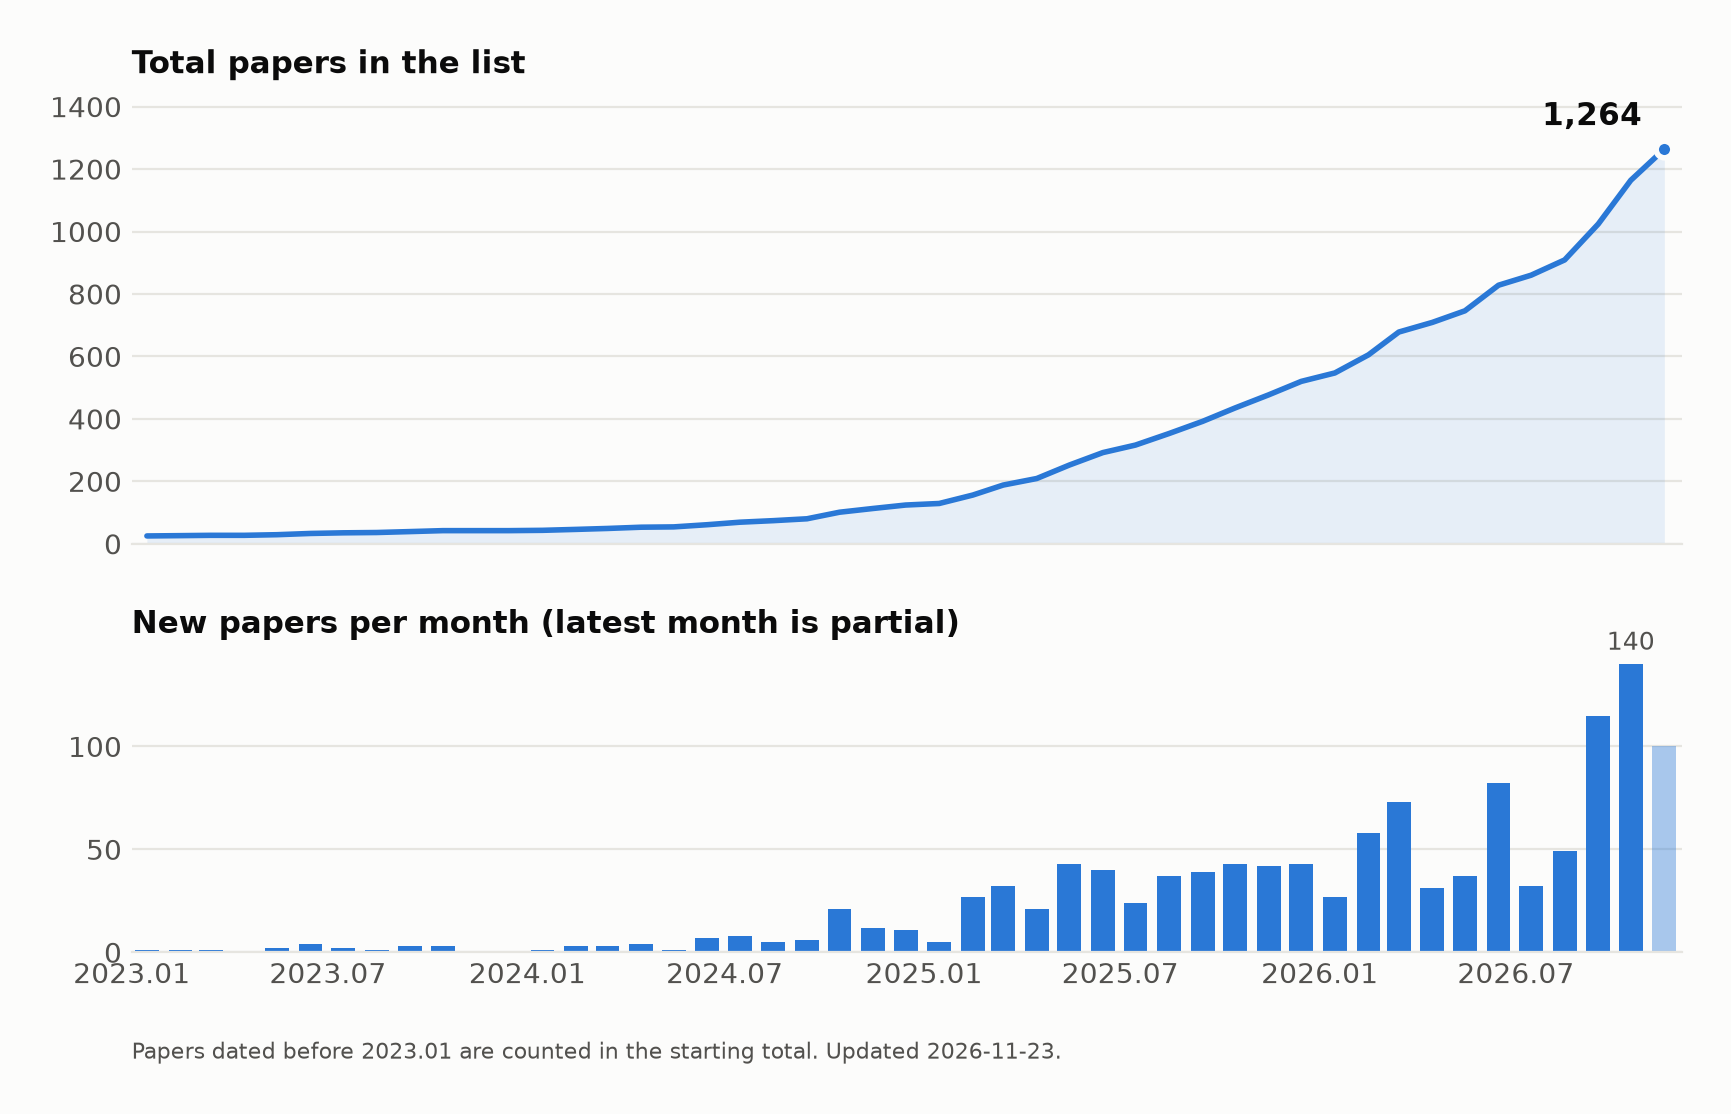
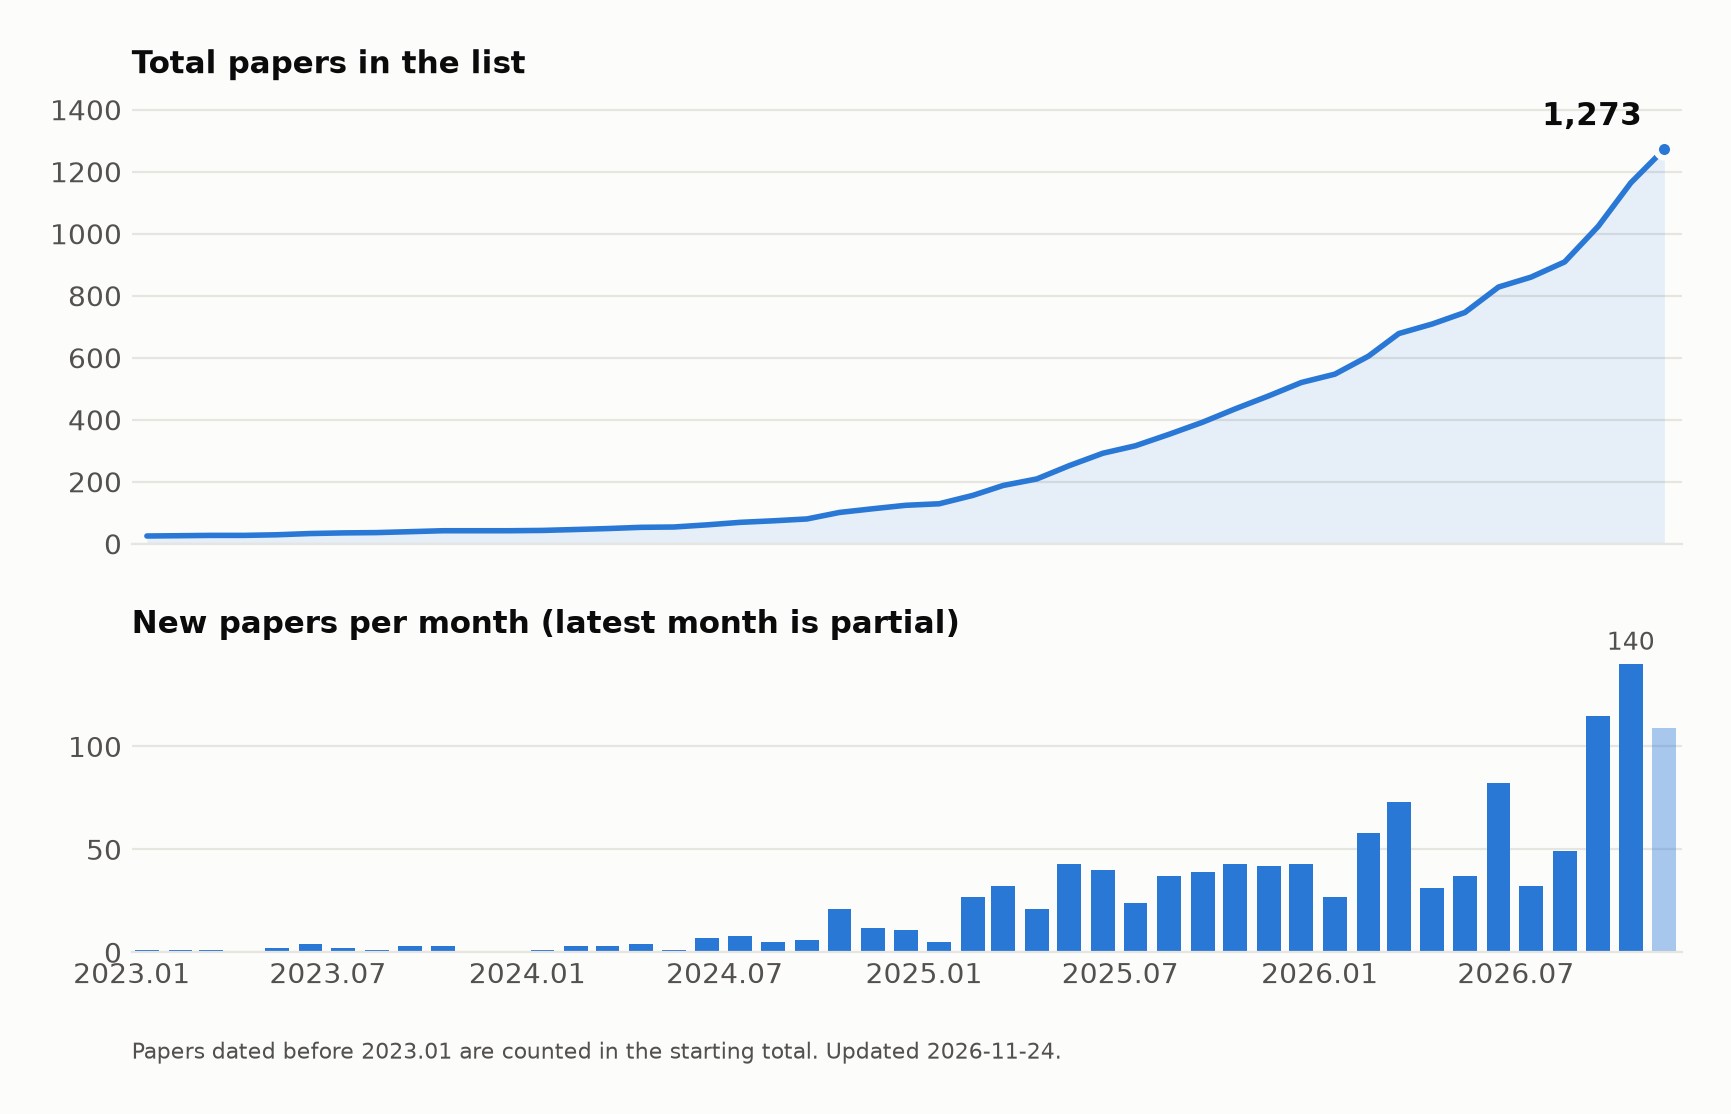
Add 9 papers from arXiv (2026-11-24)

diff --git a/README.md b/README.md
@@ -31,6 +31,11 @@ Feel free to pull a request for new papers/codes about humanoid robot learning.
 - [CoRL 2026.11](https://openreview.net/forum?id=93leGzRaPV), InfiniDanceRobot: A Streaming and Closed-Loop Music-driven Dance Generation for Humanoid Robot
 - [CoRL 2026.11](https://openreview.net/forum?id=qF26obIUEX), EVOLVE: Egocentric Vision-based Humanoid Loco-Manipulation via Demonstration Editing
 - [CoRL 2026.11](https://openreview.net/forum?id=wALhOwQWnx), Learning Functional Compliance in Whole-body Manipulation
+- [arXiv 2026.11.23](https://arxiv.org/abs/2611.30632), GeoMerge-OPD: Balanced Skill Integration in Vision-Language-Action Models
+- [arXiv 2026.11.23](https://arxiv.org/abs/2611.30449), CHAMP: Coordinated Humanoid Loco-Manipulation with Whole-Body Motion Priors
+- [arXiv 2026.11.23](https://arxiv.org/abs/2611.30077), PushMimic: Learning Adaptive Humanoid Box Pushing via Dynamic Motion Augmentation and Reference Distillation, [website](https://silvery107.github.io/pushmimic/)
+- [arXiv 2026.11.22](https://arxiv.org/abs/2611.29771), Into My Arms: Structured reinforcement learning for autonomous transport of objects and humans, [website](https://elle-miller.github.io/into_my_arms)
+- 🌟[arXiv 2026.11.22](https://arxiv.org/abs/2611.29277), ζ₀: A Framework for World Action Models with Joint Scene and Body Foresight in Humanoid Control, [website](https://chenyizhi123.github.io/zeta0-project/), [code](https://github.com/chenyizhi123/Zeta0)
 - [arXiv 2026.11.20](https://arxiv.org/abs/2611.27648), Trust What Repeats: Capped World-Model Policy Gradients for Humanoid Motion Tracking
 - [arXiv 2026.11.20](https://arxiv.org/abs/2611.27552), S-BFM: A Behavioral Foundation Model for Humanoid Control from Sparse Spatiotemporal Goals
 - [arXiv 2026.11.20](https://arxiv.org/abs/2611.27397), AnyBodyCodec: A Shared Native Interface for Body-Model Conversion, Extension, and Humanoid Control
@@ -1086,6 +1091,7 @@ Feel free to pull a request for new papers/codes about humanoid robot learning.
 - [arXiv 2019.01](https://arxiv.org/abs/1901.08652), Learning Agile and Dynamic Motor Skills for Legged Robots
 
 ## Hardware Design
+- [arXiv 2026.11.23](https://arxiv.org/abs/2611.29868), Arcadian: Open-Source Humanoid Ecosystem for Accessible and Customizable Research and Education, [website](https://arcadian-humanoid.github.io/)
 - [arXiv 2026.11.18](https://arxiv.org/abs/2611.24279), QDD-MM: A Simple and Compact Open-Source Muscle Module with Quasi-Direct-Drive Motor for Tendon-driven Robots, [code](https://github.com/haraduka/qddmm)
 - [arXiv 2026.11.16](https://arxiv.org/abs/2611.20950), ROSE: A Shared Cross-Embodiment Facial-Motion Latent Space for Humanoid Robot Expression
 - [arXiv 2026.11](https://arxiv.org/abs/2611.05302), PACT: Pose-Robust Actuation Co-Design for Tendon-Driven Robotic Hands
@@ -1210,6 +1216,8 @@ Feel free to pull a request for new papers/codes about humanoid robot learning.
 - arXiv 2024.12, **Genesis**: A Generative and Universal Physics Engine for Robotics and Beyond, [code](https://github.com/Genesis-Embodied-AI/Genesis) / [website](https://genesis-embodied-ai.github.io/)
 
 ## Physics-Based Character Animation
+- [arXiv 2026.11.23](https://arxiv.org/abs/2611.30312), One Policy, Many Bodies: Cooperative Human-Object Interaction with Heterogeneous Teams
+- [arXiv 2026.11.22](https://arxiv.org/abs/2611.29749), CarlHOI: Counterfactual Predictive Imagination for Generalizable Multi-Humanoid Object Interaction under Constrained Environments, [website](https://carlhoi.github.io)
 - [arXiv 2026.11.20](https://arxiv.org/abs/2611.27603), Synthesizing Expressive Human-Object Interactions via Test-time Latent Adaptation
 - [arXiv 2026.11.19](https://arxiv.org/abs/2611.26218), MixReact: Physics-Based Reactive Humanoid Control from Multimodal Cues via a Discrete-Continuous Mixture of Transformers, [website](https://binlee26.github.io/MixReact_Page/)
 - [arXiv 2026.11.18](https://arxiv.org/abs/2611.23825), Learning Martial Arts Motion Skills for Animating Opponents in VR Sparring Games
@@ -1298,6 +1306,7 @@ Feel free to pull a request for new papers/codes about humanoid robot learning.
 
 - [SIGGRAPH 2010](https://dl.acm.org/doi/abs/10.1145/1833349.1778770?casa_token=j3esx-hx0GAAAAAA:OvRU6YYrNo2ZP9IyXGVDryWJqHmvU-oVhnzog8RFKKySQJjganzaAmHff6CQ4a0qzfJZu-J6Buf4Ug), Spatial relationship preserving character motion adaptation
 ## Human Motion Analysis and Synthesis
+- 🌟[arXiv 2026.11.23](https://arxiv.org/abs/2611.29897), Motion Mamba 2.0: Autoregressive Diffusion Mamba for Long-Horizon Humanoid Control, [website](https://aigeeksgroup.github.io/MotionMamba2.0), [code](https://github.com/AIGeeksGroup/MotionMamba2.0)
 - 🌟[arXiv 2026.11.19](https://arxiv.org/abs/2611.25801), Fast and Accurate Body Estimation in Pixels, World Space and Scenes, [website](https://www.jinkuncao.com/FAB), [code](https://github.com/noahcao/FAB)
 - [arXiv 2026.11.18](https://arxiv.org/abs/2611.25005), Inhabitant: An Agent Framework for Long-Horizon Human-Scene Interaction with Spatial Control and Quantitative Feedback, [website](https://ryenhails.github.io/Inhabitant/)
 - [arXiv 2026.11.11](https://arxiv.org/abs/2611.15101), CFGComposer: Compositional Audio-Text-to-Motion Generation via Copula Score Correction
